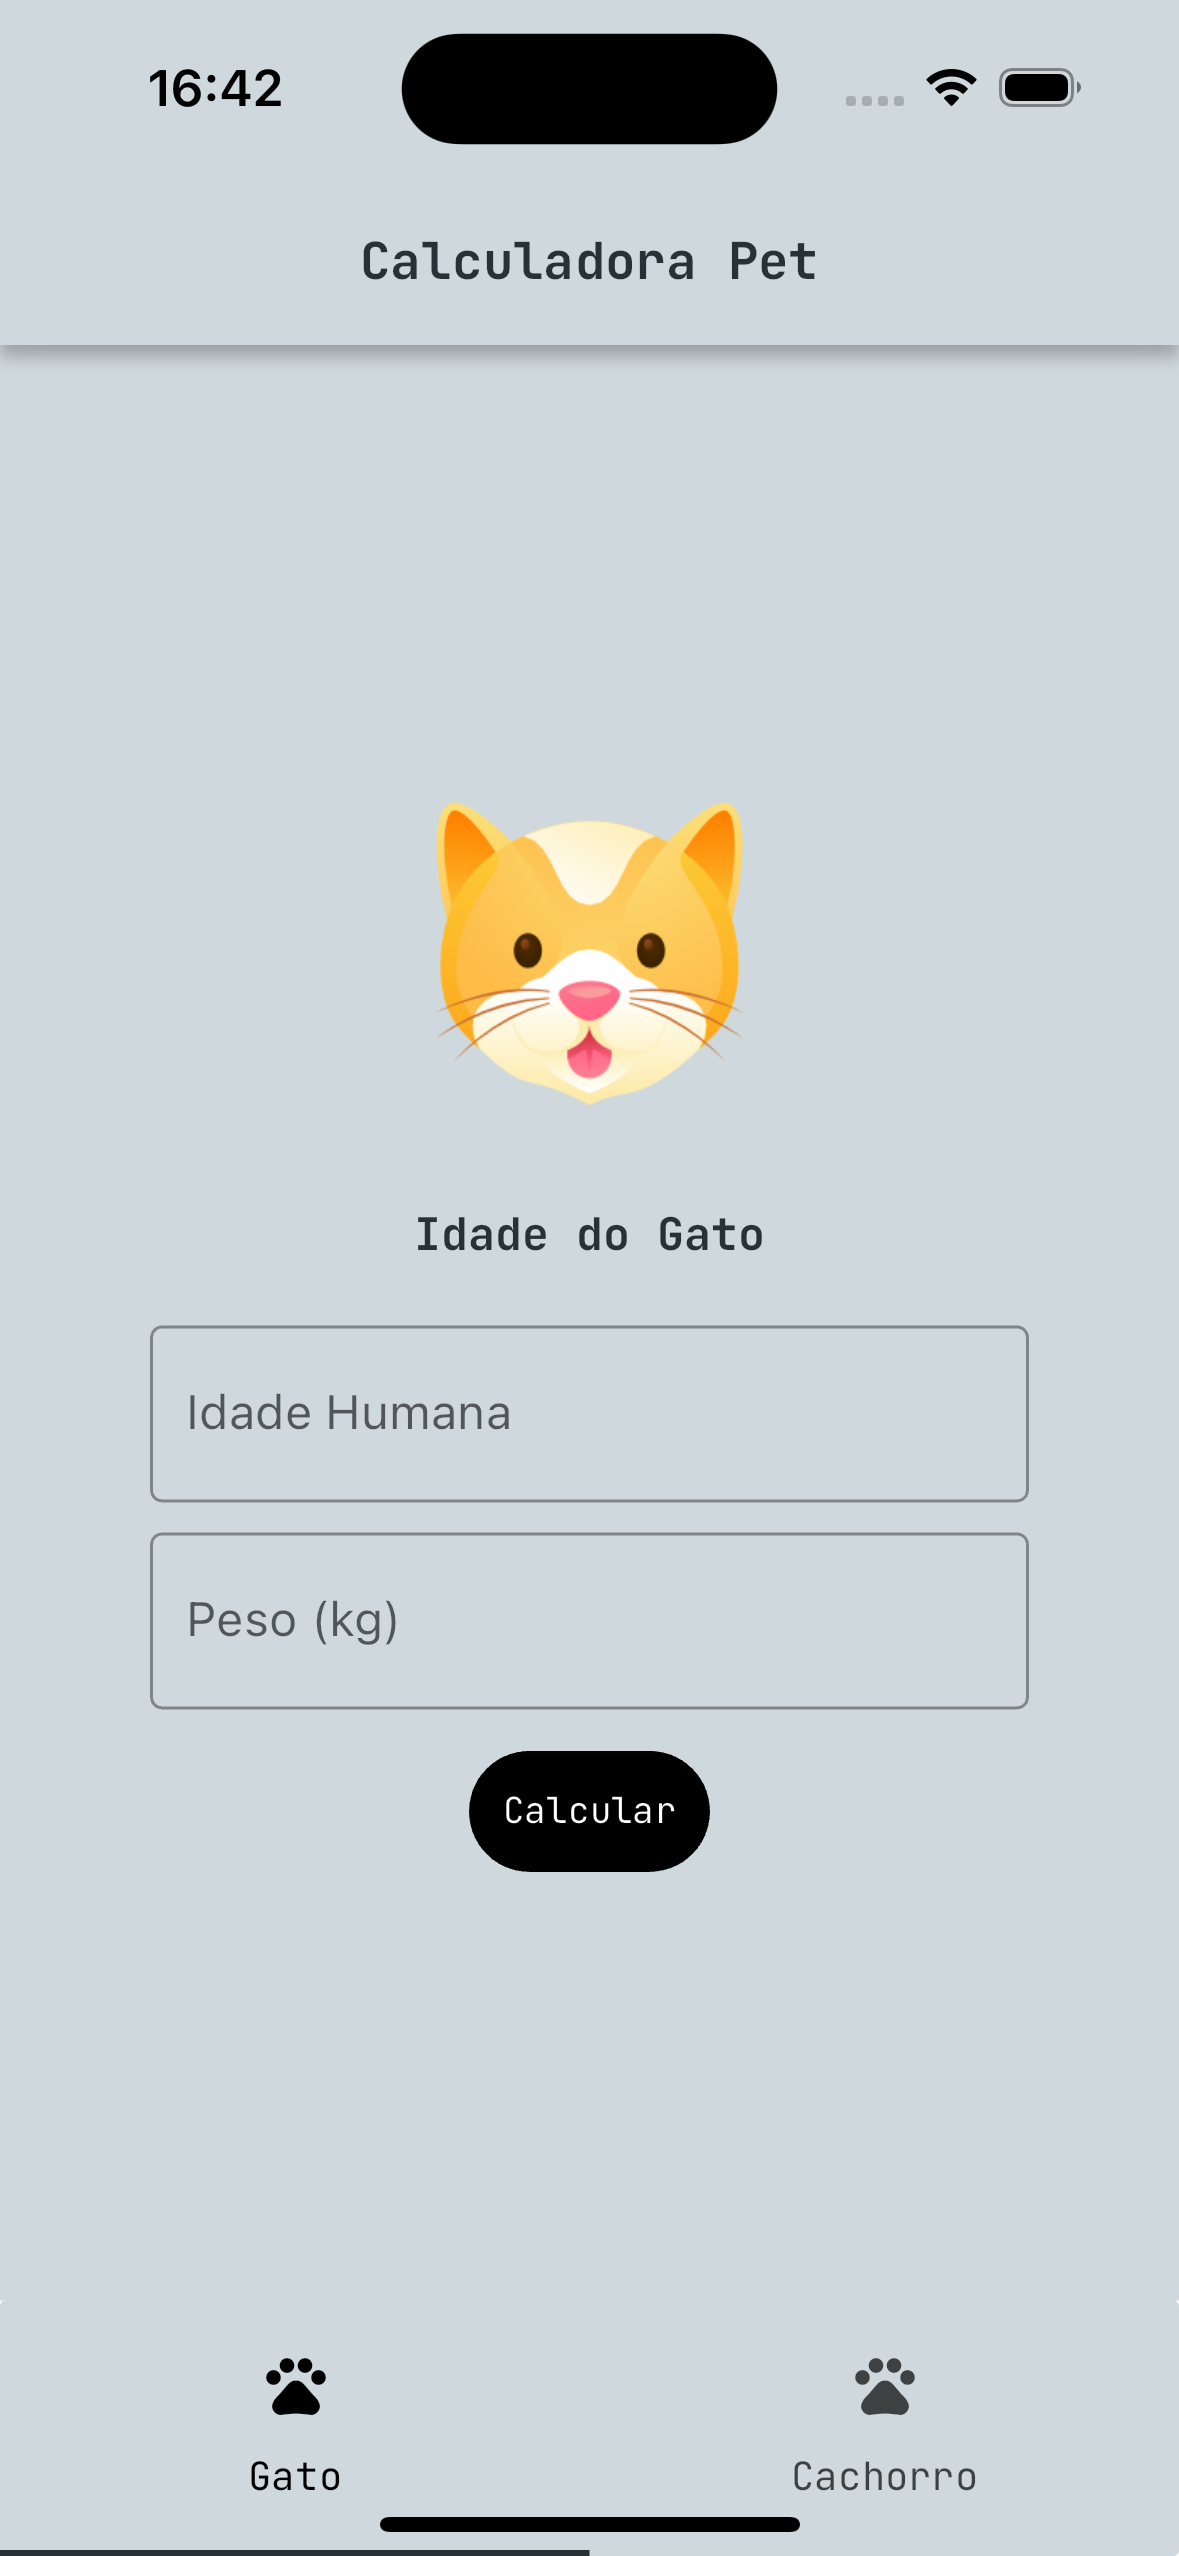
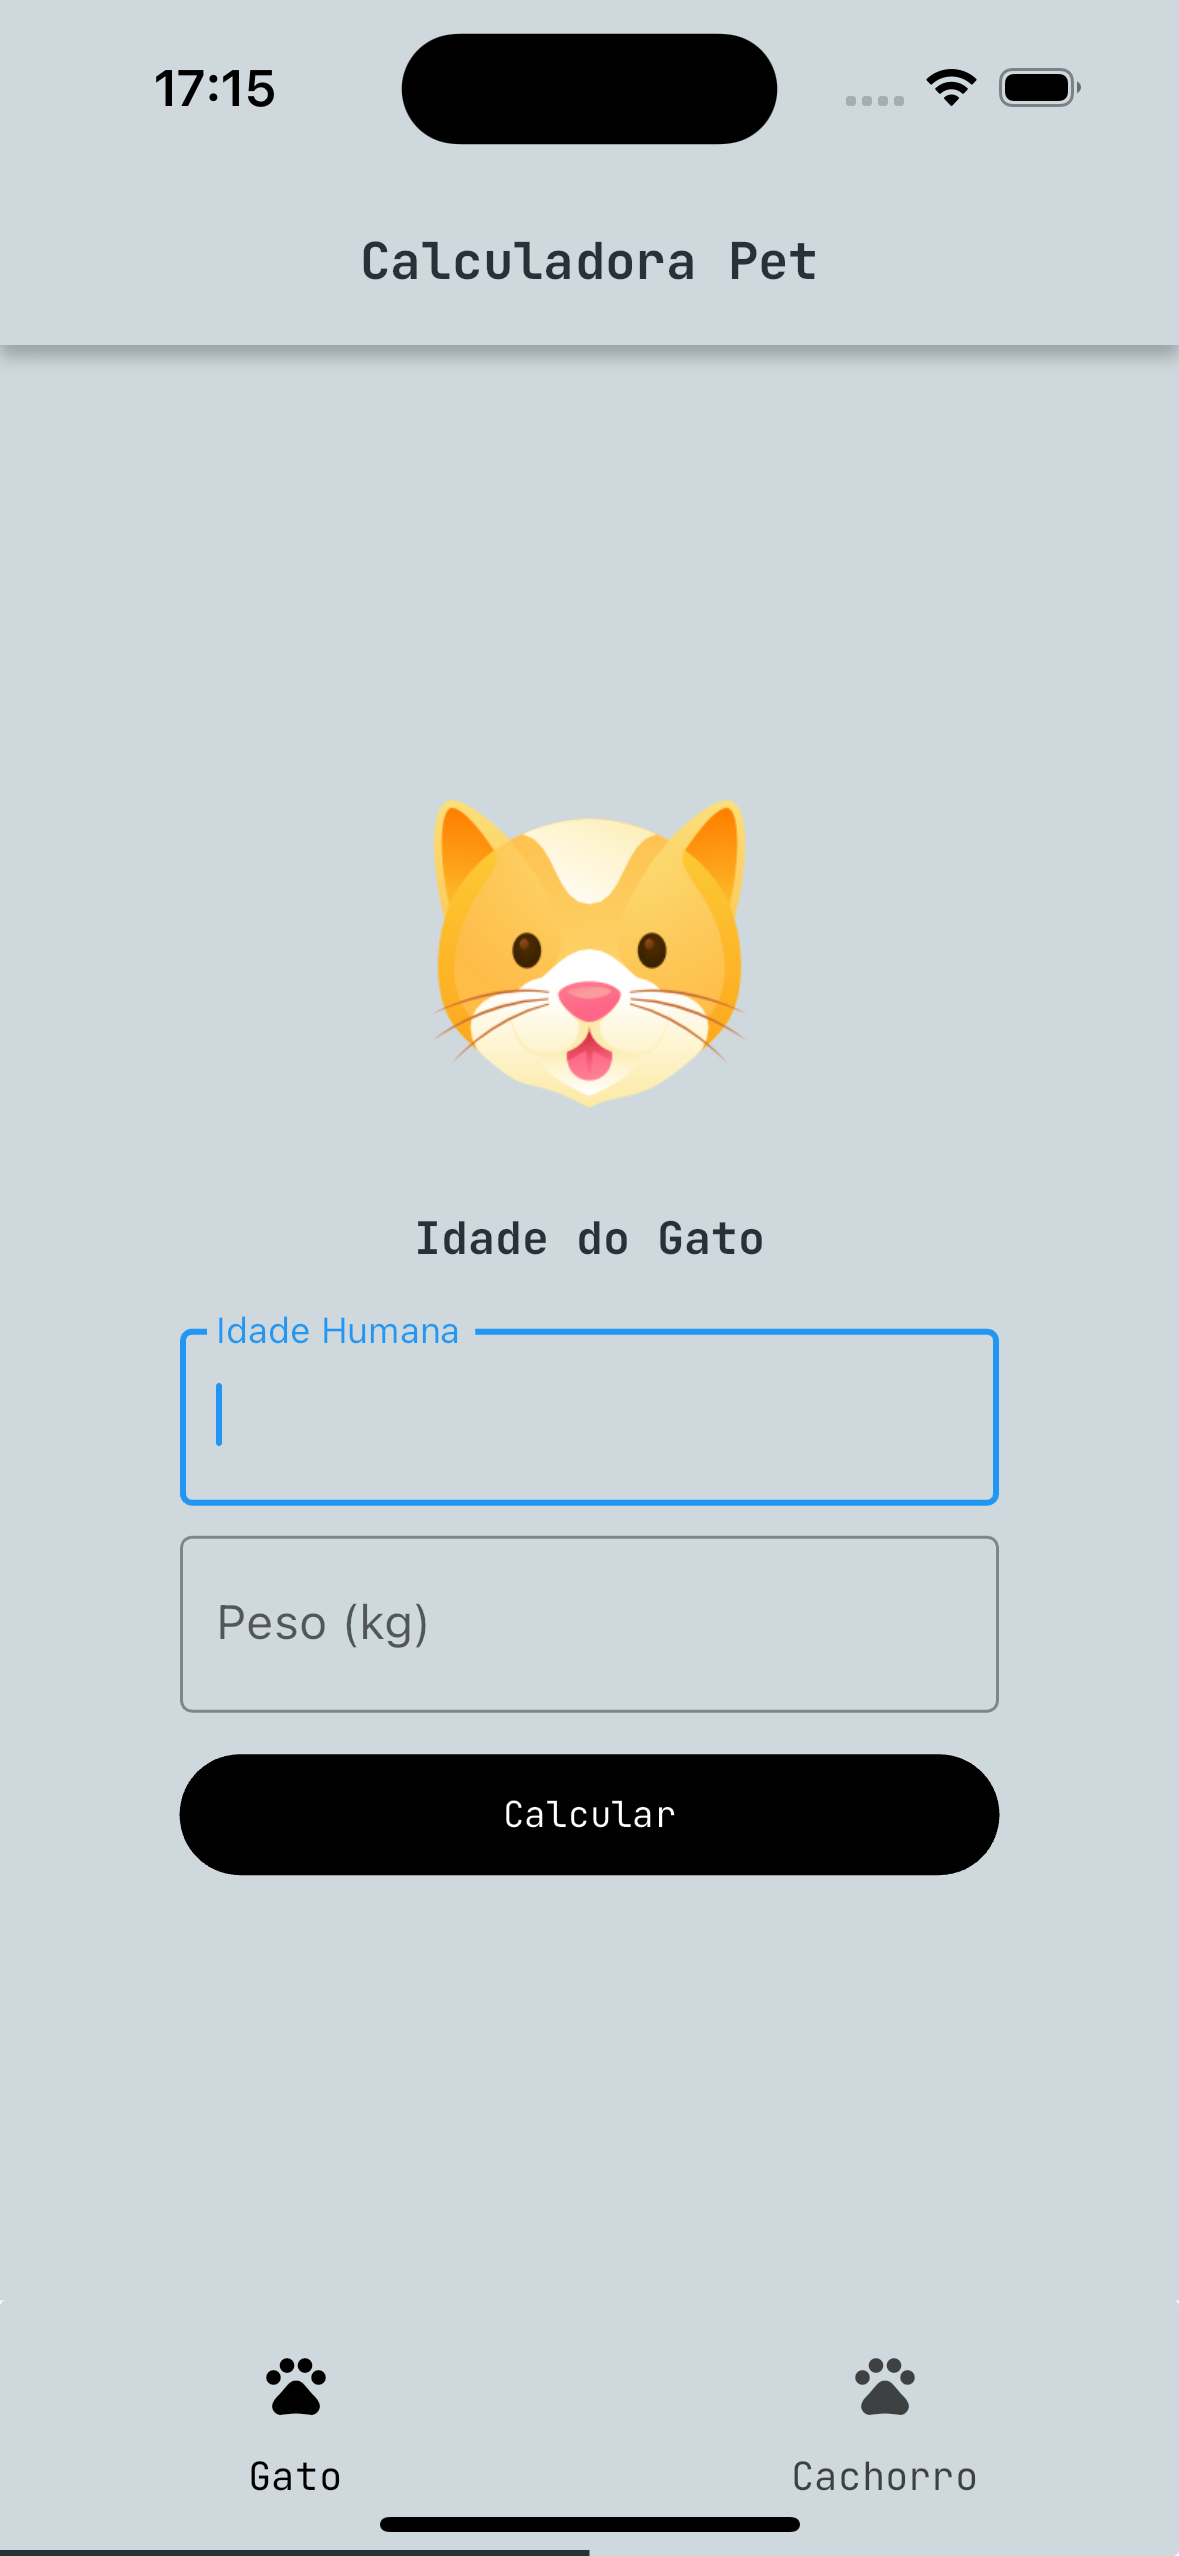
Chore refactor assets

diff --git a/lib/pages/CatPage/cat_page.dart b/lib/pages/CatPage/cat_page.dart
@@ -26,7 +26,7 @@ class _CatPageState extends State<CatPage> {
         height: myHeight,
         width: myWidth,
         child: Padding(
-          padding: const EdgeInsets.all(50),
+          padding: const EdgeInsets.all(60),
           child: Column(
             mainAxisAlignment: MainAxisAlignment.center,
             children: <Widget>[
@@ -89,6 +89,7 @@ class _CatPageState extends State<CatPage> {
                 },
                 color: ButtonColor.primaryColor,
                 shape: GFButtonShape.pills,
+                fullWidthButton: true,
                 text: "Calcular",
                 textStyle: TextStyle(
                   color: FontTextColor.secondaryColor,

diff --git a/lib/pages/DogPage/dog_page.dart b/lib/pages/DogPage/dog_page.dart
@@ -26,7 +26,7 @@ class _DogPageState extends State<DogPage> {
         height: myHeight,
         width: myWidth,
         child: Padding(
-          padding: const EdgeInsets.all(50),
+          padding: const EdgeInsets.all(60),
           child: Column(
             mainAxisAlignment: MainAxisAlignment.center,
             children: <Widget>[
@@ -89,6 +89,7 @@ class _DogPageState extends State<DogPage> {
                 },
                 color: ButtonColor.primaryColor,
                 shape: GFButtonShape.pills,
+                fullWidthButton: true,
                 text: "Calcular",
                 textStyle: TextStyle(
                   color: FontTextColor.secondaryColor,
